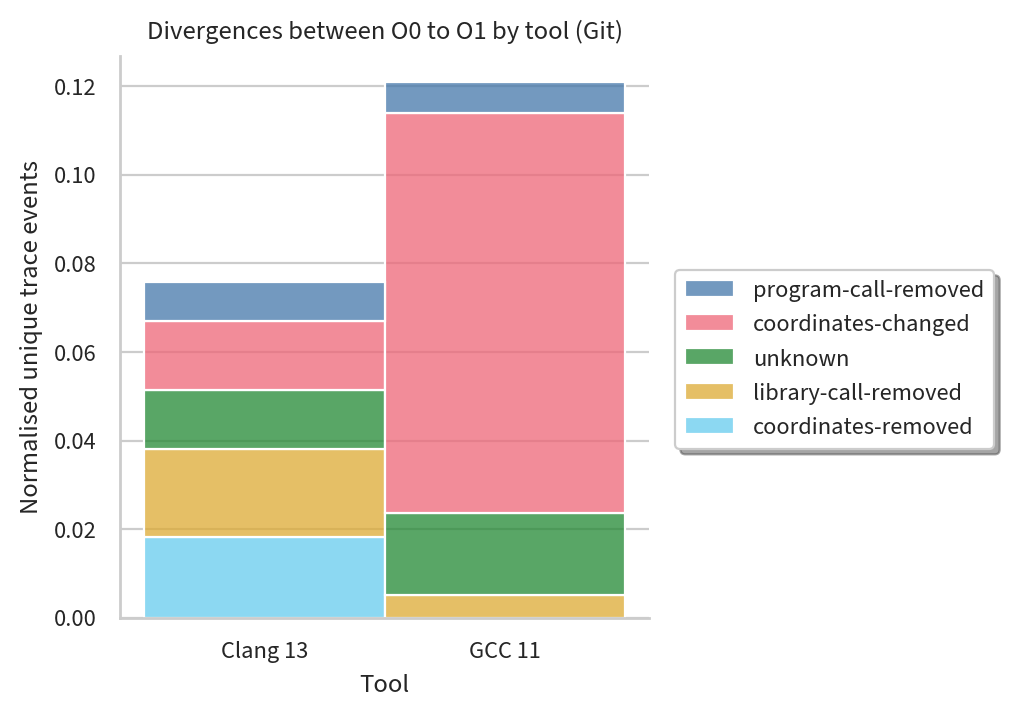
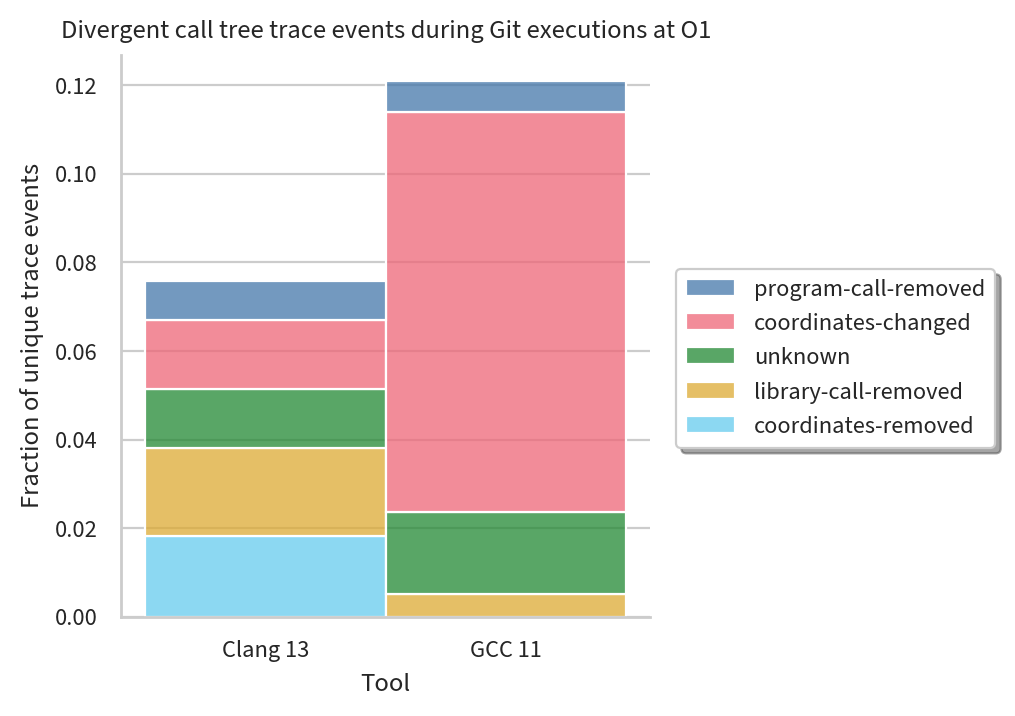
Tweak title and axis labels

diff --git a/data/shared/package_plots.py b/data/shared/package_plots.py
@@ -109,9 +109,9 @@ def divergences_by_compiler_family(df):
   ax = g.facet_axis(0, 0)
   ax.grid(False, "major", "x")
   g.set(
-    title=f"Divergences between O0 to O1 by tool ({friendly_name})",
+    title=f"Divergent call tree trace events during {friendly_name} executions at O1",
     xlabel="Tool",
     # xbound=(0, df["Order"].max()),
-    ylabel="Normalised unique trace events",
+    ylabel="Fraction of unique trace events",
     # ybound=(0, 1.004),
   )
